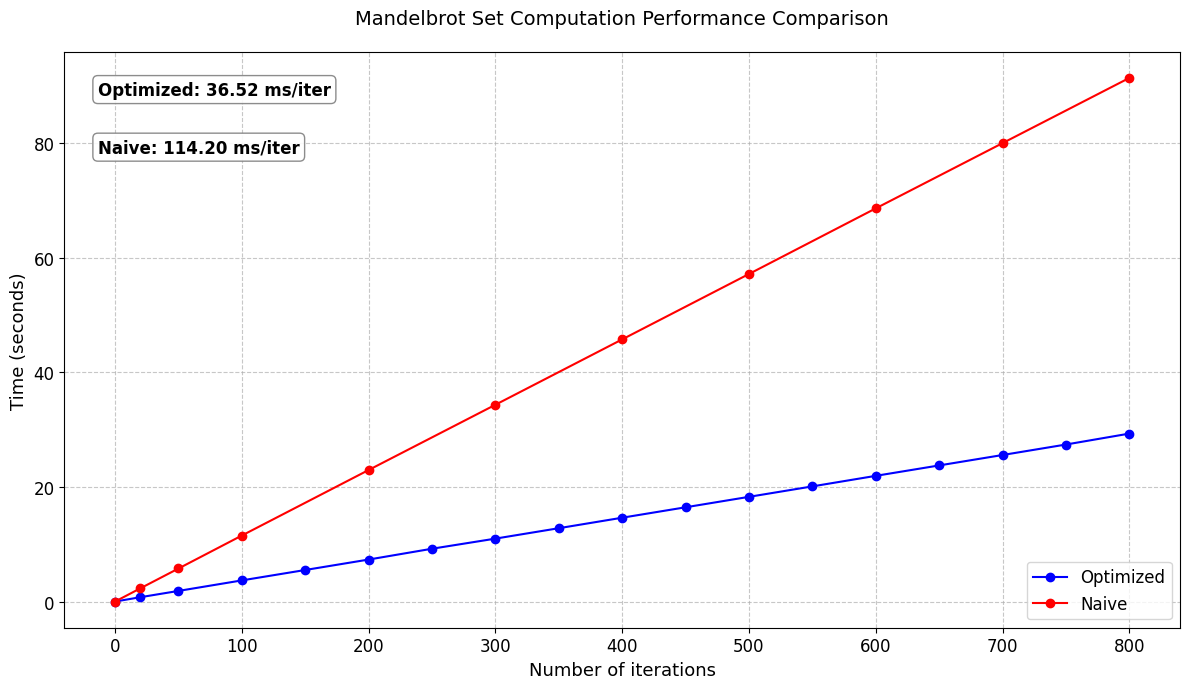
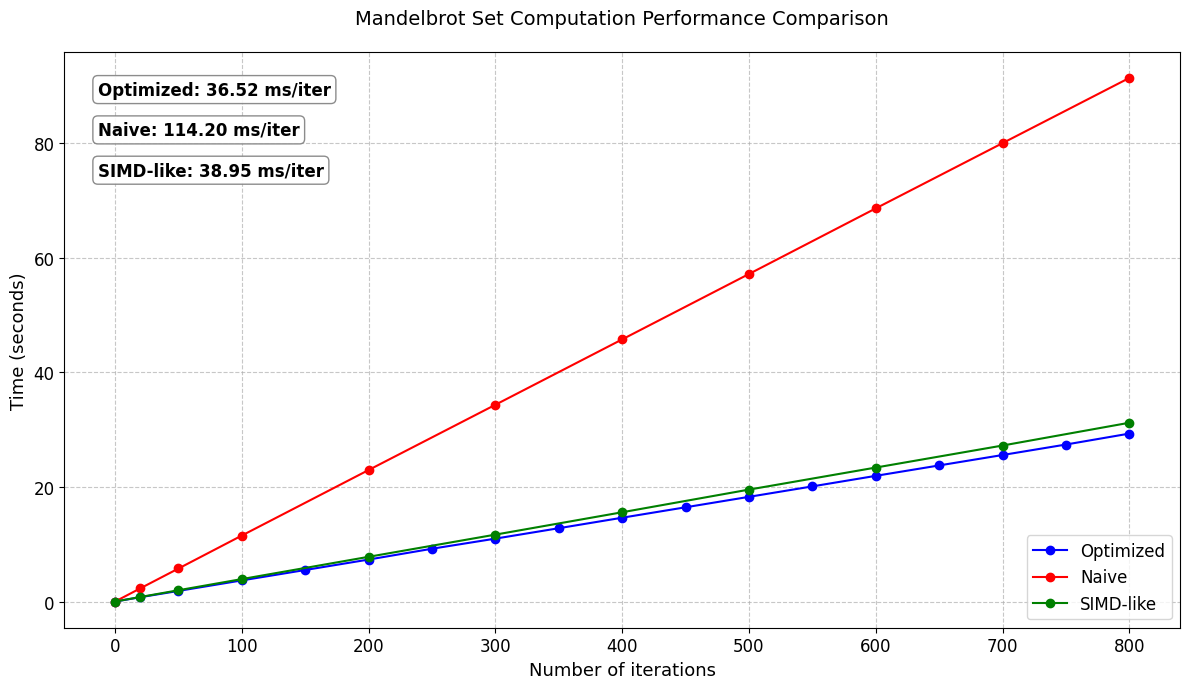
add graph to readme

diff --git a/src/optimization4.cpp b/src/optimization4.cpp
@@ -7,7 +7,7 @@
 
 const int MAX_ITERATION = 255;
 const int R2_BOUNDARY = 100;
-const int CYCLE_ITERATIONS_CNT = 100;
+const int CYCLE_ITERATIONS_CNT = 800;
 const int X_SHIFT = 400;
 const float DIMENTION_COEFF = 300;
 
@@ -55,6 +55,6 @@ int main() {
     }
 
     clock_t end = clock();
-    printf("time spent is %f\n", (float) (end - start) / (CLOCKS_PER_SEC * CYCLE_ITERATIONS_CNT));
+    printf("time spent is %f, %d\n", (float) (end - start) / CLOCKS_PER_SEC, CYCLE_ITERATIONS_CNT);
     return drow_mandelbrot_figure(colors);
 }

diff --git a/readme.md b/readme.md
@@ -39,11 +39,14 @@ Generating the Mandelbrot set is computationally expensive because:
 
 Three build targets are available:
 
+(Compiled with -O3)
+
 ```bash
 make naive      # Scalar (naive) implementation
 make opt4       # SIMD-like implementation
 make opt44      # ARM NEON Intrinsics implementation
 ```
+
 
 Executables will be located in the `./build/` directory.
 
